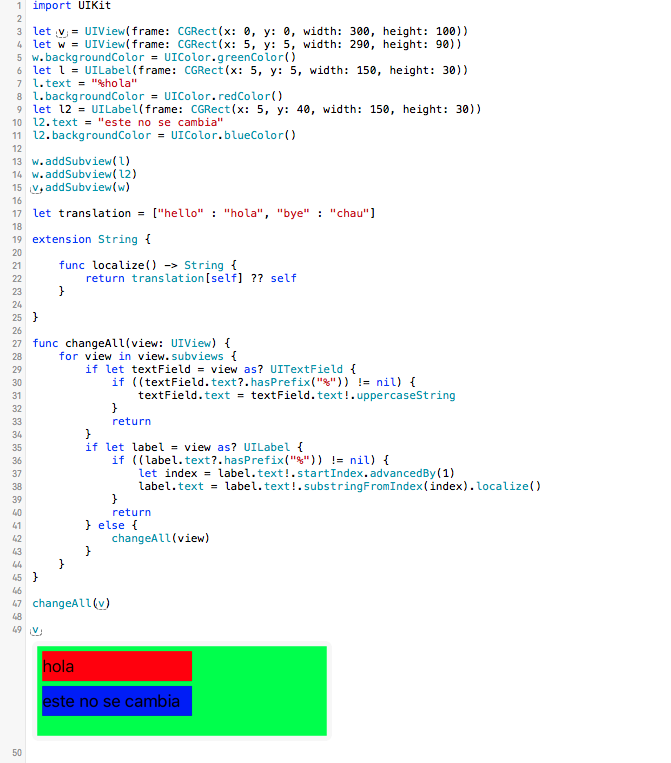
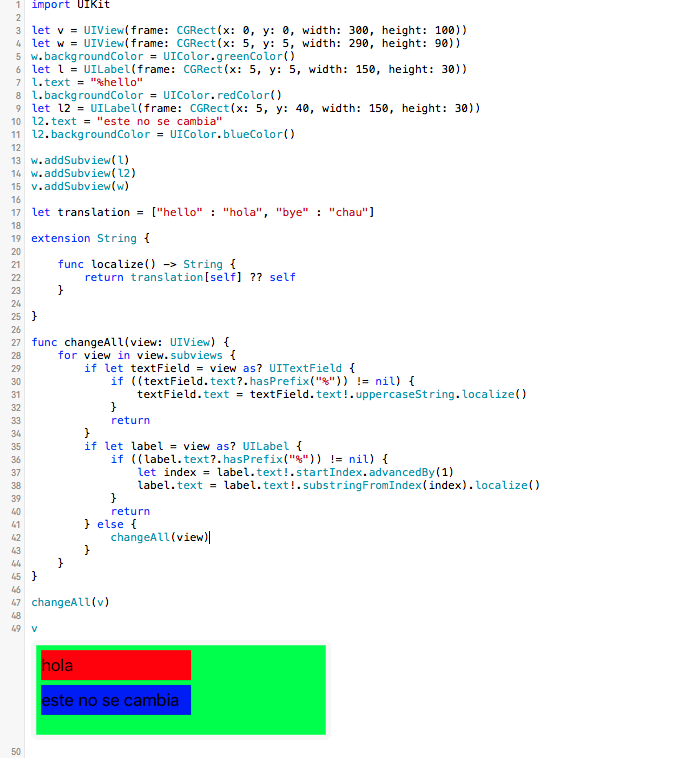
Fixes

Changed region(s): [[0.0, 0.0, 0.8048, 0.971], [0.0, 0.971, 0.0298, 1.0]]

diff --git a/recursiveSetText.playground/Contents.swift b/recursiveSetText.playground/Contents.swift
@@ -4,7 +4,7 @@ let v = UIView(frame: CGRect(x: 0, y: 0, width: 300, height: 100))
 let w = UIView(frame: CGRect(x: 5, y: 5, width: 290, height: 90))
 w.backgroundColor = UIColor.greenColor()
 let l = UILabel(frame: CGRect(x: 5, y: 5, width: 150, height: 30))
-l.text = "%hola"
+l.text = "%hello"
 l.backgroundColor = UIColor.redColor()
 let l2 = UILabel(frame: CGRect(x: 5, y: 40, width: 150, height: 30))
 l2.text = "este no se cambia"
@@ -28,7 +28,8 @@ func changeAll(view: UIView) {
     for view in view.subviews {
         if let textField = view as? UITextField {
             if ((textField.text?.hasPrefix("%")) != nil) {
-                textField.text = textField.text!.uppercaseString
+                let index = textField.text!.startIndex.advancedBy(1)
+                textField.text = textField.text!.substringFromIndex(index).localize()
             }
             return
         }

diff --git a/README.md b/README.md
@@ -2,4 +2,4 @@
 
 Internationalize the Views
 
-[screenshot](./screenshot.png)
+![screenshot](./screenshot.png)
